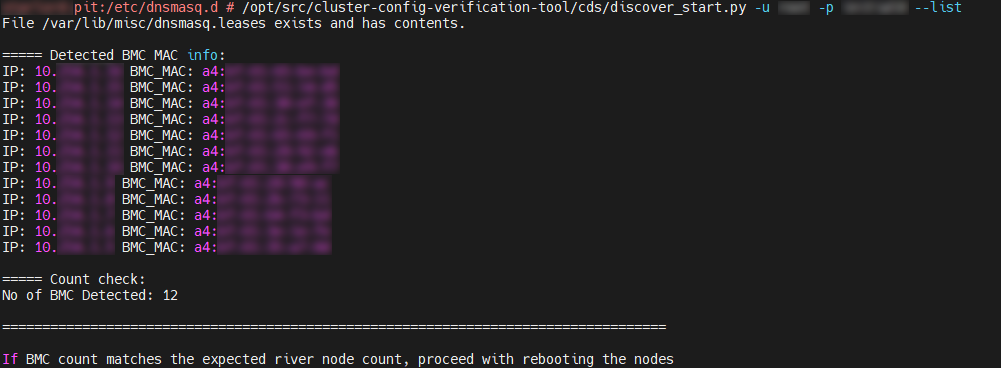
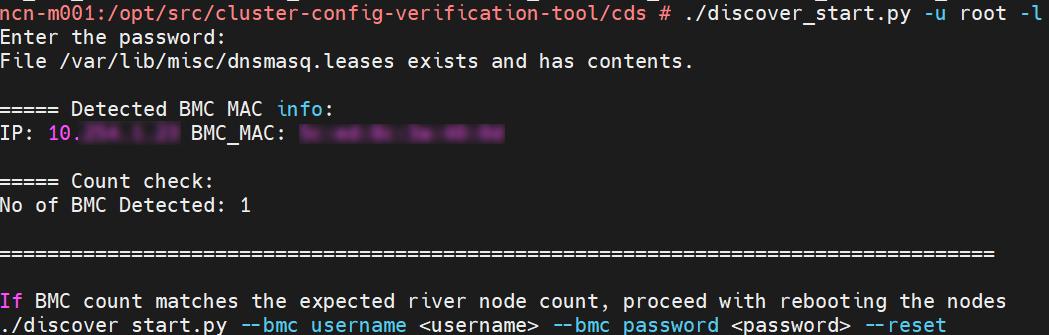
Updated interactive password feature

diff --git a/install/Create_System_Configuration_Using_Cluster_Discovery_Service.md b/install/Create_System_Configuration_Using_Cluster_Discovery_Service.md
@@ -152,8 +152,10 @@ The following steps will verify if IP addresses are assigned to the BMC nodes an
 1. (`pit#`) List the BMC nodes.
 
    ```bash
-   "${CVT_PATH}"/cds/discover_start.py -u bmc_username -p bmc_password --list
+   "${CVT_PATH}"/cds/discover_start.py -u <bmc_username> --list
    ```
+
+   > A prompt to enter the password will appear, enter the correct BMC password.
 
 1. Verify that all the required nodes are listed.
 
@@ -164,8 +166,10 @@ The following steps will verify if IP addresses are assigned to the BMC nodes an
 1. (`pit#`) Reset the listed BMC nodes.
 
    ```bash
-   "${CVT_PATH}"/cds/discover_start.py -u bmc_username -p bmc_password --reset
+   "${CVT_PATH}"/cds/discover_start.py -u <bmc_username> --reset
    ```
+
+   > A prompt to enter the password will appear, enter the correct BMC password.
 
 ### 3.3 Verify the discover status
 
@@ -194,20 +198,28 @@ The following steps verify the status and lists the IP addresses of nodes, fabri
 1. (`pit#`) Verify the status and list the IP addresses of the fabric switches.
 
    ```bash
-   "${CVT_PATH}"/cds/discover_status.py fabric --username fabric_username --password fabric_password --out
+   "${CVT_PATH}"/cds/discover_status.py fabric --username <fabric_username> --out
    ```
+
+   > A prompt to enter the password will appear, enter the correct fabric switch password.
+
+   Example output:
+
+   ![Fabric switchlist example](../img/install/fabric_switch_list_output.png)
 
 1. (`pit#`) Verify the status and list the IP addresses of the PDUs.
 
    ```bash
-   "${CVT_PATH}"/cds/discover_status.py pdu --username pdu_username --password pdu_password --out
+   "${CVT_PATH}"/cds/discover_status.py pdu --out
    ```
 
 1. (`pit#`) Verify the status and list the IP addresses of the CMCs.
 
    ```bash
-   "${CVT_PATH}"/cds/discover_status.py cmc --username cmc_username --password cmc_password --out
+   "${CVT_PATH}"/cds/discover_status.py cmc --username <cmc_username> --out
    ```
+
+   > A prompt to enter the password will appear, enter the correct CMC password.
 
 ### 3.4 Collect and compare the inventory data
 
@@ -228,8 +240,10 @@ The following steps verify the status and lists the IP addresses of nodes, fabri
 1. (`pit#`) Collect the fabric inventory data.
 
    ```bash
-   "${CVT_PATH}"/fabric_inventory.py --switchfile ./cds/fabricswlist --username switch_username --password switch_password
+   "${CVT_PATH}"/fabric_inventory.py --switchfile ./cds/fabricswlist --username <switch_username>
    ```
+
+   > A prompt to enter the password will appear, enter the correct fabric password.
 
 1. (`pit#`) Collect the management network inventory.
 
@@ -238,8 +252,10 @@ The following steps verify the status and lists the IP addresses of nodes, fabri
    1. Collect the management network inventory data.
 
       ```bash
-      "${CVT_PATH}"/management_inventory.py --switchfile mgmtswlist --password password --username username
+      "${CVT_PATH}"/management_inventory.py  --username <username> --switchfile mgmtswlist
       ```
+   
+      > A prompt to enter the password will appear, enter the correct fabric password.
 
 1. (`pit#`) Collect the PDU inventory data.
 
@@ -335,8 +351,9 @@ The following steps verify the status and lists the IP addresses of nodes, fabri
 (`pit#`) Clean and reset the modified files to their original default state.
 
 ```bash
-"${CVT_PATH}"/cds/discover_stop.py -u bmc_username -p bmc_password
+"${CVT_PATH}"/cds/discover_stop.py -u <bmc_username>
 ```
+> A prompt to enter the password will appear, enter the correct BMC password.
 
 ## 6. Run CSI
 

diff --git a/install/pre-installation.md b/install/pre-installation.md
@@ -515,9 +515,9 @@ These variables will need to be set for many procedures within the CSM installat
 
 Create the system configuration using one of the following options:
 
-- [Create System Configuration Using Cluster Discovery Service](Create_System_Configuration_Using_Cluster_Discovery_Service.md)
+- [Create System Configuration Using Cluster Discovery Service](Create_System_Configuration_Using_Cluster_Discovery_Service.md): This is a dynamic discovery process, the system and its connections are dynamically discovered and compared with the SHCD to create the system configuration files. This method is highly recommended for the new installations.
 
-- [Create System Configuration Using SHCD](Create_System_Configuration_Using_SHCD.md)
+- [Create System Configuration Using SHCD](Create_System_Configuration_Using_SHCD.md): This method relies on the SHCD data to create the system configuration files.
 
 ## 4 Import the CSM Tarball
 
